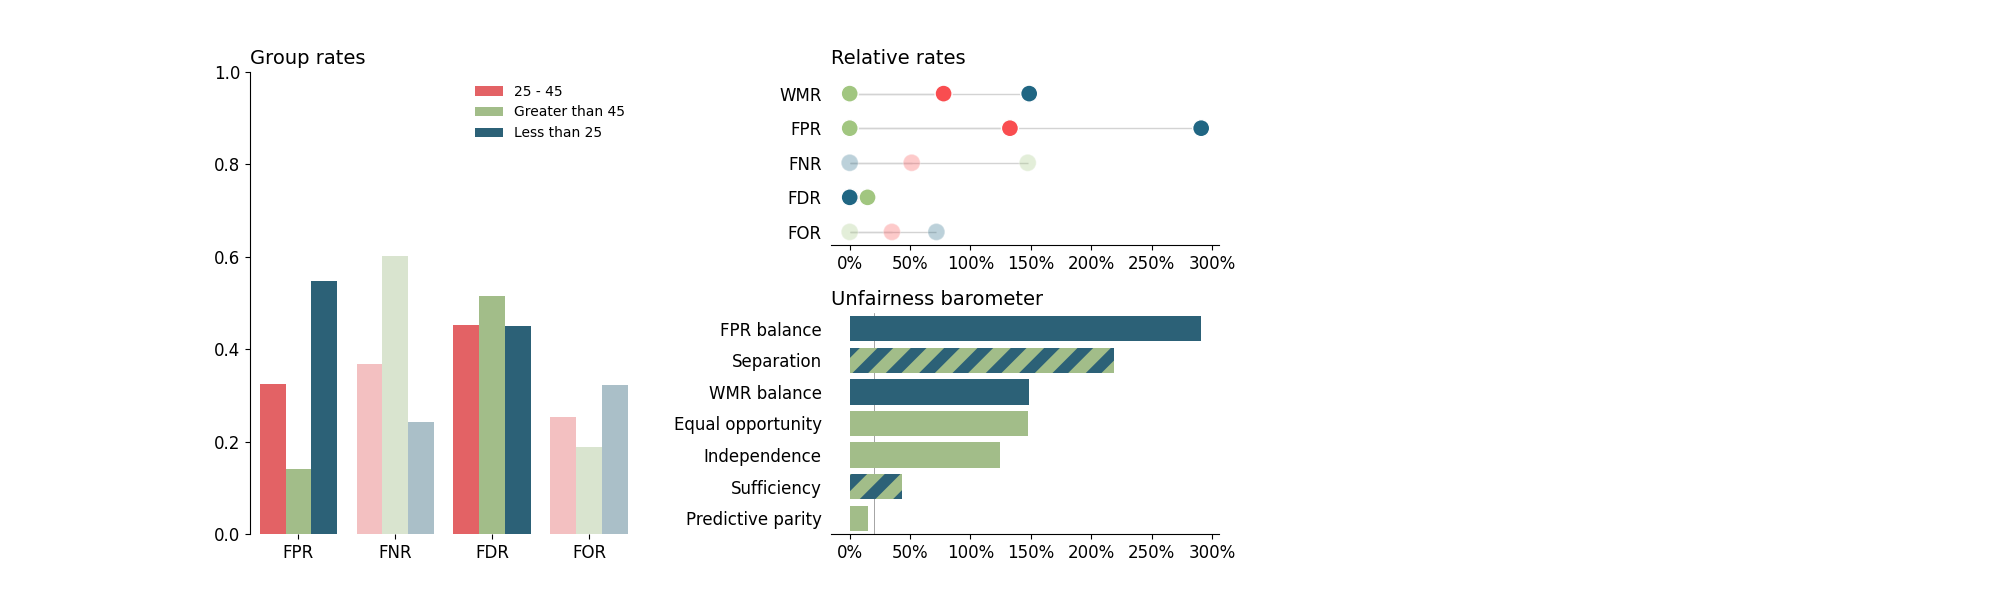
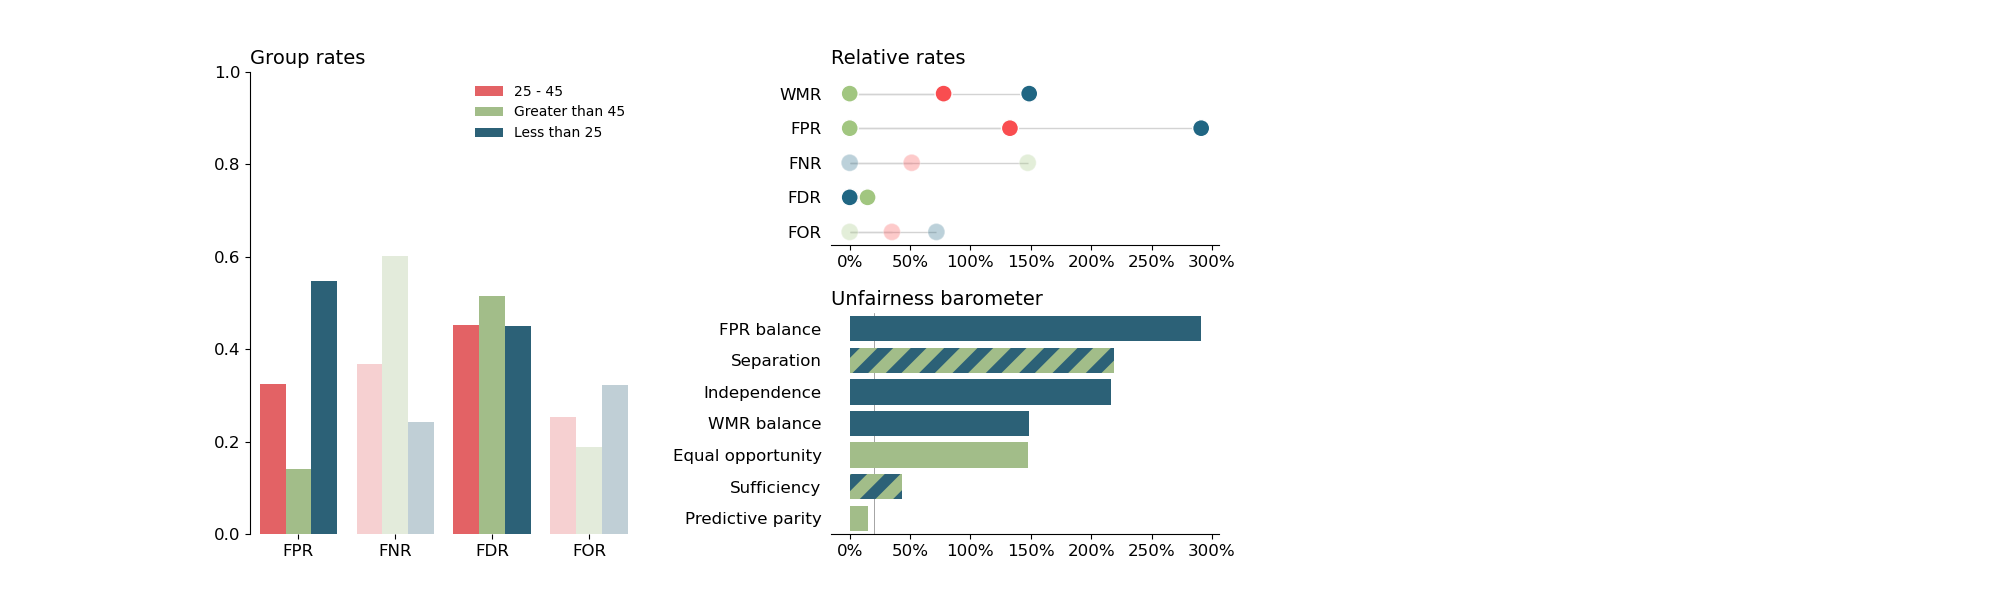
Update l2 plots and fix alpha mistake

diff --git a/src/evaluation_tool/evaluater.py b/src/evaluation_tool/evaluater.py
@@ -33,11 +33,11 @@ if __name__ == '__main__':
             y = anym.y, 
             y_hat = anym.yhat, 
             a = anym.grp, 
-            r = anym.phat)
-        fair_anym.l1_get_data()
+            r = anym.phat,
+            w_fp = anym_w_fp)
         fair_anym.plot_confusion_matrix()
         plt.savefig(figure_path+'anym_confusion.png')
-        fair_anym.l2_plot(w_fp = anym_w_fp)
+        fair_anym.l2_plot()
         plt.savefig(figure_path+'anym_l2.png')
         if update_report_figures:
             plt.savefig(fig_path_report+'L2_example.pdf', bbox_inches='tight')
@@ -58,10 +58,11 @@ if __name__ == '__main__':
             y_hat = german_log_reg.log_reg_pred, 
             a = german_log_reg.sex, 
             r = german_log_reg.log_reg_prob,
+            w_fp = credit_w_fp,
             model_type='Logistic Regression')
         fair_german_log_reg.plot_confusion_matrix()
         plt.savefig(figure_path+'german_log_reg_confusion.png')
-        fair_german_log_reg.l2_plot(w_fp=credit_w_fp)
+        fair_german_log_reg.l2_plot()
         plt.savefig(figure_path+'german_log_reg_l2.png')
         
 
@@ -86,10 +87,11 @@ if __name__ == '__main__':
             y_hat = german_nn.nn_pred, 
             a = german_nn.sex, 
             r = german_nn.nn_prob,
+            w_fp = credit_w_fp,
             model_type='Neural network')
         fair_german_nn.plot_confusion_matrix()
         plt.savefig(figure_path+'german_nn_confusion.png')
-        fair_german_nn.l2_plot(w_fp=credit_w_fp)
+        fair_german_nn.l2_plot()
         plt.savefig(figure_path+'german_nn_l2.png')
 
 
@@ -105,10 +107,11 @@ if __name__ == '__main__':
             y_hat = compas.pred_medium_high, 
             a = compas.age_cat, 
             r = compas.decile_score,
+            w_fp = compas_w_fp,
             model_type='COMPAS Decile Scores')
         fair_compas_age.plot_confusion_matrix()
         plt.savefig(figure_path+'compas_confusion_age.png')
-        fair_compas_age.l2_plot(w_fp=compas_w_fp)
+        fair_compas_age.l2_plot()
         plt.savefig(figure_path+'compas_l2_age.png')
 
         # filtering out hispanics to recreate the Propublica result 
@@ -121,10 +124,11 @@ if __name__ == '__main__':
             y_hat = compas.pred_medium_high, 
             a = compas.race, 
             r = compas.decile_score,
+            w_fp = compas_w_fp,
             model_type='COMPAS Decile Scores')
         fair_compas_race.plot_confusion_matrix()
         plt.savefig(figure_path+'compas_confusion_race.png')
-        fair_compas_race.l2_plot(w_fp=compas_w_fp)
+        fair_compas_race.l2_plot()
         plt.savefig(figure_path+'compas_l2_race.png')
     
 
@@ -143,11 +147,12 @@ if __name__ == '__main__':
             y_hat = catalan.nn_pred, 
             a = catalan.V2_nationality_type, 
             r = catalan.nn_prob,
+            w_fp = catalan_w_fp,
             model_type='Catalan NN')
 
         fair_catalan_V2.plot_confusion_matrix()
         plt.savefig(figure_path+'catalan_confusion_V2_nationality_type.png')
-        fair_catalan_V2.l2_plot(w_fp=catalan_w_fp)
+        fair_catalan_V2.l2_plot()
         plt.savefig(figure_path+'catalan_l2_V2_nationality_type.png')
 
     # Sensitive: Area of Origin
@@ -156,11 +161,12 @@ if __name__ == '__main__':
             y_hat = catalan.nn_pred, 
             a = catalan.V4_area_origin, 
             r = catalan.nn_prob,
+            w_fp = catalan_w_fp,
             model_type='Catalan NN')
 
         fair_catalan_V4.plot_confusion_matrix()
         plt.savefig(figure_path+'catalan_confusion_V4_area_origin.png')
-        fair_catalan_V4.l2_plot(w_fp=catalan_w_fp)
+        fair_catalan_V4.l2_plot()
         plt.savefig(figure_path+'catalan_l2_V4_area_origin.png')
 
 # %%
@@ -177,10 +183,11 @@ if __name__ == '__main__':
             y_hat = taiwanese.nn_pred, 
             a = taiwanese.sex, 
             r = taiwanese.nn_prob,
+            w_fp = credit_w_fp,
             model_type='Taiwanese NN')
 
         fair_taiwanese.plot_confusion_matrix()
         plt.savefig(figure_path+'taiwanese_confusion_sex.png')
-        fair_taiwanese.l2_plot(w_fp=credit_w_fp)
+        fair_taiwanese.l2_plot()
         plt.savefig(figure_path+'taiwanese_l2_sex.png')
 # %%

diff --git a/src/evaluation_tool/layered_tool.py b/src/evaluation_tool/layered_tool.py
@@ -285,9 +285,8 @@ class FairKit:
         ax.tick_params(labelsize=12)
 
         # Set alpha values
-        containers = flatten_list(
-            [list(ax.containers[i][0:4]) for i in range(self.n_sens_grps)])
-        for bar, rate in zip(containers, plot_df.rate):
+        containers = flatten_list(ax.containers) # order = from left to right by group
+        for bar, rate in zip(containers, rate_names*self.n_sens_grps):
             alpha = alpha_weights[rate]
             bar.set_alpha(alpha)
 
